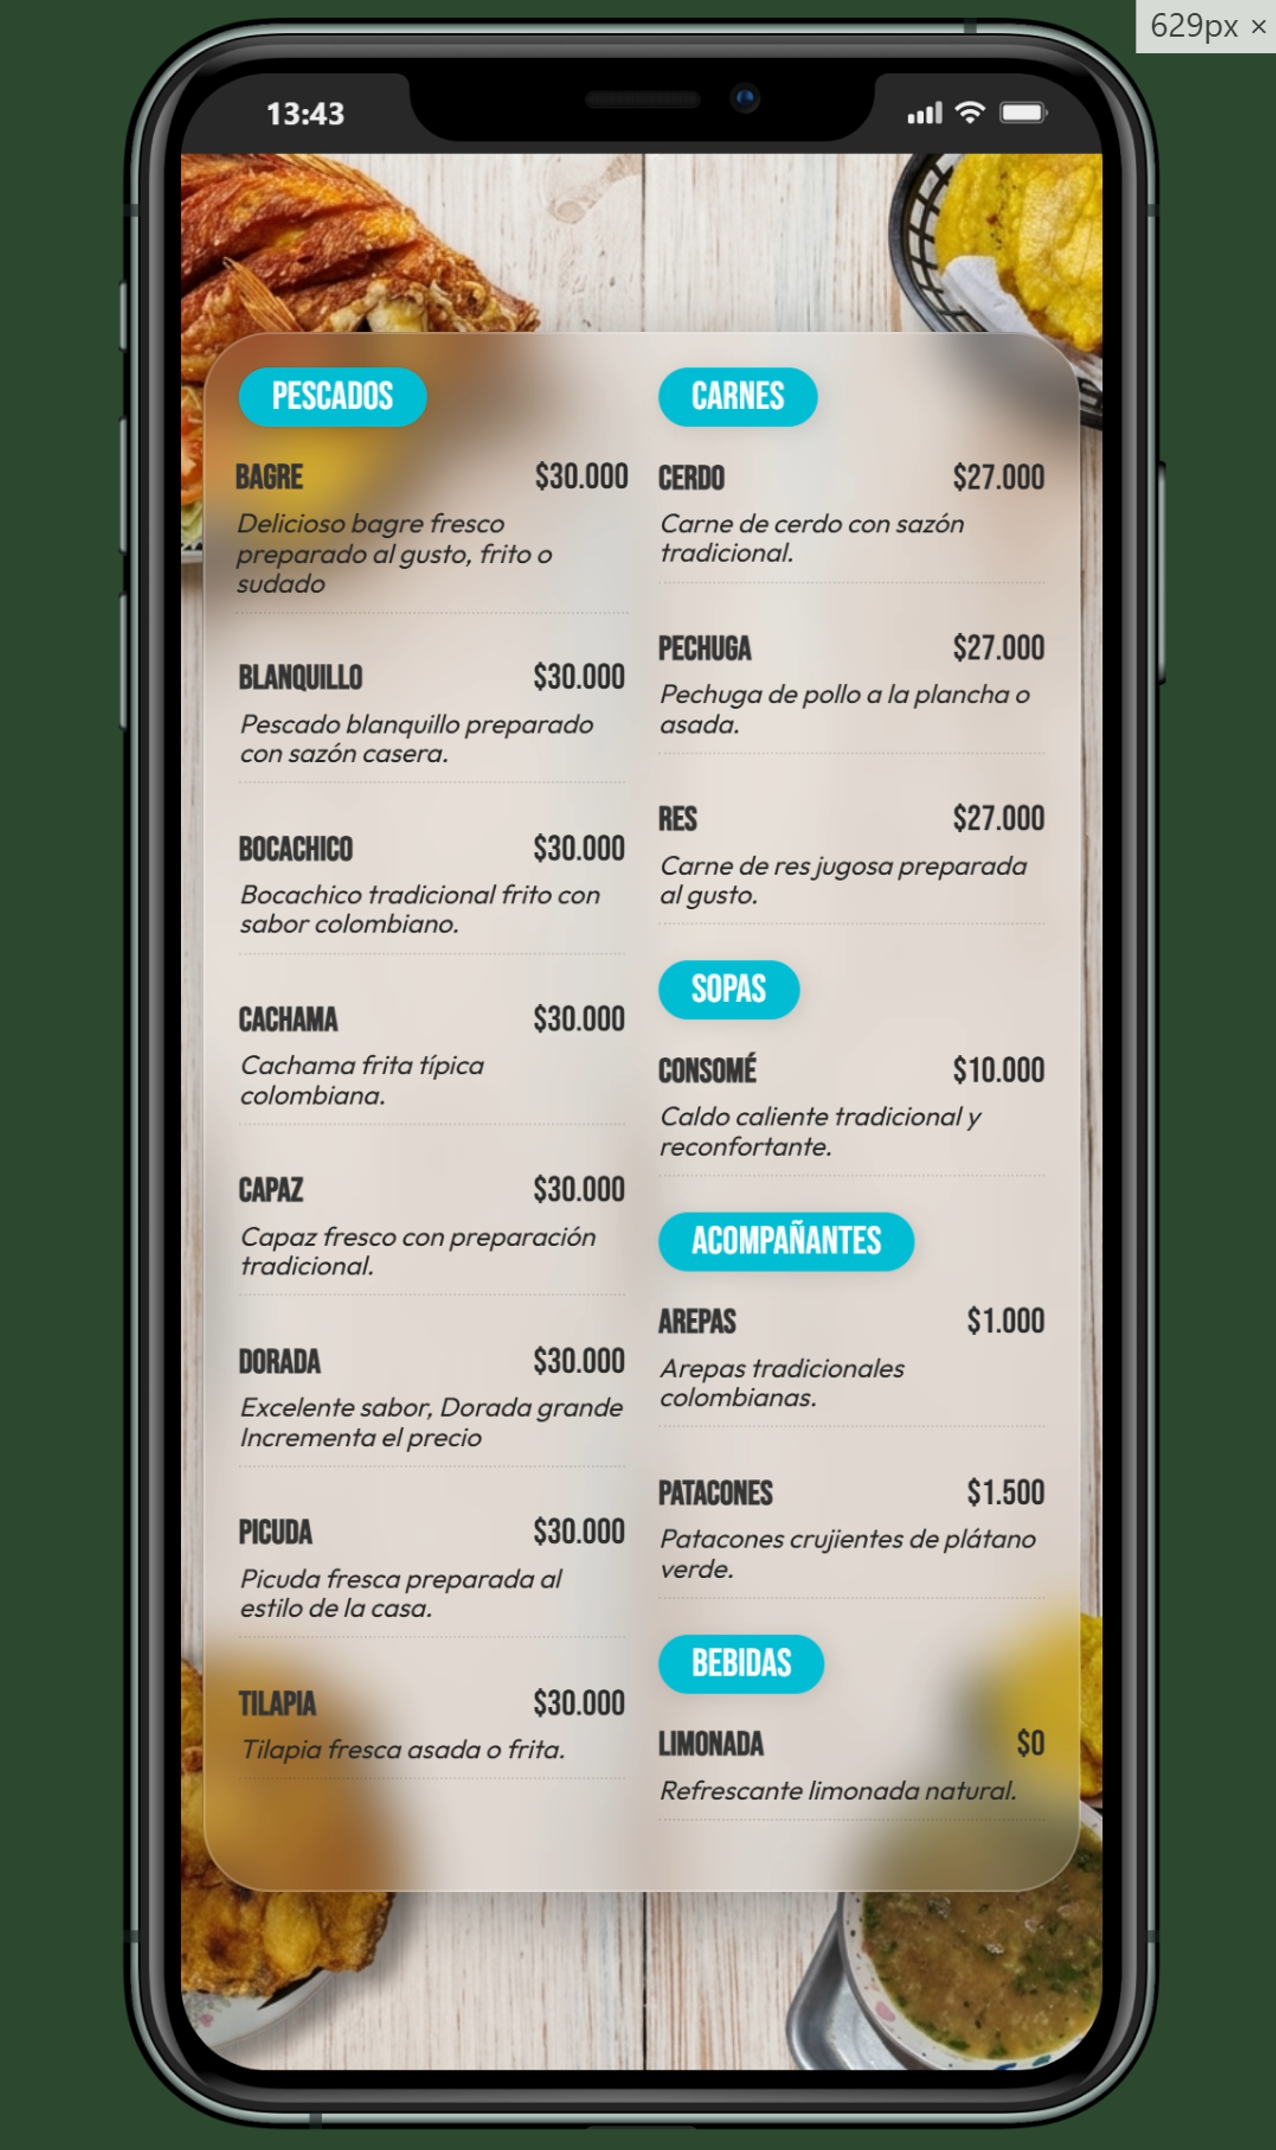
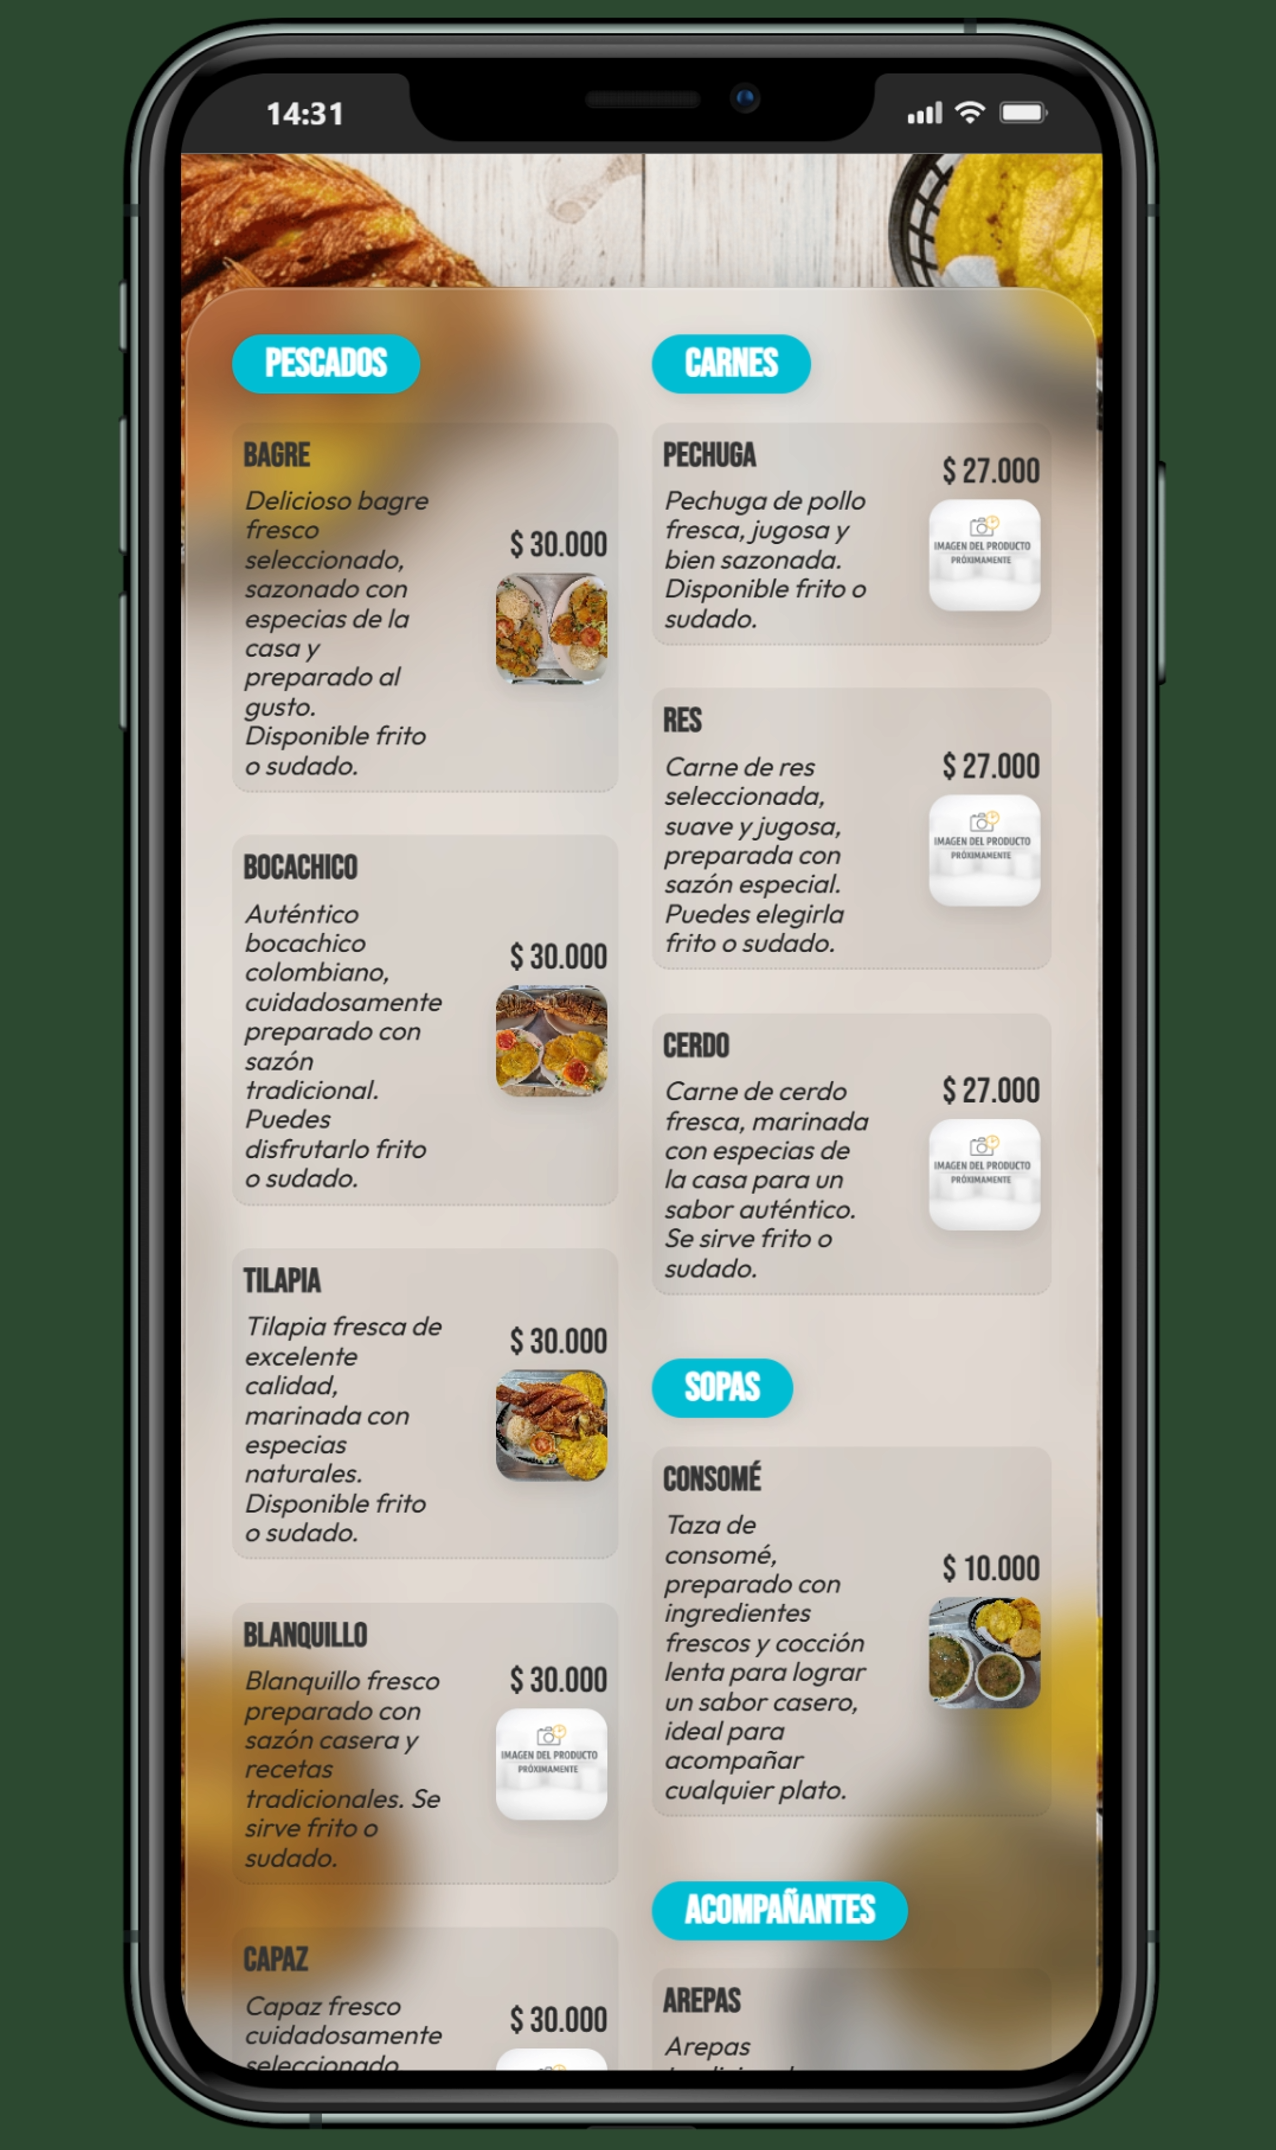
Implement dynamic menu rendering, product modal, loader, and comprehensive styling with SEO enhancements.

Changed region(s): [[0.1223, 0.1247, 0.8864, 0.966], [0.8864, 0.0, 1.0, 0.0312], [0.2139, 0.0312, 0.2751, 0.0623]]

diff --git a/public/js/main.js b/public/js/main.js
@@ -54,21 +54,27 @@ async function loadMenu() {
                     maximumFractionDigits: 0
                 }).format(product.precio);
 
+                const productImg = product.imagen ? `public/images/products/${product.imagen}` : 'public/images/product_default.png';
+
                 productsHtml += `
                     <article class="product-item" onclick='openProductModal(${JSON.stringify(product)})'>
-                        <header class="product-header">
+                        <div class="product-main-info">
                             <h3 class="product-name">${product.nombre}</h3>
+                            <p class="product-description">${product.descripcion || ''}</p>
+                        </div>
+                        <div class="product-side-info">
                             <span class="product-price">${formattedPrice}</span>
-                        </header>
-                        <p class="product-description">${product.descripcion || ''}</p>
+                            <img src="${productImg}" class="product-thumbnail" alt="${product.nombre}" loading="lazy" 
+                                 onerror="this.onerror=null;this.src='public/images/product_default.png';">
+                        </div>
                     </article>
                 `;
             });
 
             categorySection.innerHTML = `
-                <div class="category-title-bubble">
+                <h2 class="category-title-bubble">
                     ${category.nombre.toUpperCase()}
-                </div>
+                </h2>
                 <div class="product-list">
                     ${productsHtml}
                 </div>
@@ -115,13 +121,24 @@ function openProductModal(product) {
     if (product.imagen) {
         const img = document.createElement('img');
         img.src = baseUrl + product.imagen;
+        img.loading = 'lazy';
+        img.onerror = () => { img.src = 'public/images/product_default.png'; };
         imgContainer.appendChild(img);
     }
 
     if (product.imagen_2) {
         const img2 = document.createElement('img');
         img2.src = baseUrl + product.imagen_2;
+        img2.loading = 'lazy';
+        img2.onerror = () => { img2.style.display = 'none'; };
         imgContainer.appendChild(img2);
+    }
+
+    if (!product.imagen && !product.imagen_2) {
+        const img = document.createElement('img');
+        img.src = 'public/images/product_default.png';
+        img.loading = 'lazy';
+        imgContainer.appendChild(img);
     }
 
     modal.style.display = 'flex';

diff --git a/public/css/style.css b/public/css/style.css
@@ -6,6 +6,17 @@
     --font-body: 'Outfit', sans-serif;
 }
 
+.sr-only {
+    position: absolute;
+    width: 1px;
+    height: 1px;
+    padding: 0;
+    margin: -1px;
+    overflow: hidden;
+    clip: rect(0, 0, 0, 0);
+    border: 0;
+}
+
 * {
     margin: 0;
     padding: 0;
@@ -137,21 +148,48 @@ body {
 }
 
 .product-item {
+    display: flex;
+    gap: 12px;
+    align-items: center;
     border-bottom: 1px dotted rgba(0,0,0,0.1);
-    padding-bottom: 0.4rem;
+    padding-bottom: 0.6rem;
     cursor: pointer;
-    transition: transform 0.2s;
+    transition: transform 0.2s, background-color 0.2s;
+    border-radius: 8px;
+    padding: 8px;
+    background-color: rgba(0, 0, 0, 0.05);
 }
 
 .product-item:hover {
     transform: scale(1.02);
+    background-color: rgba(0, 0, 0, 0.08);
 }
 
-.product-header {
+.product-thumbnail {
+    width: 65px;
+    height: 65px;
+    object-fit: cover;
+    border-radius: 10px;
+    background-color: rgba(0,0,0,0.05);
+    flex-shrink: 0;
+    box-shadow: 0 4px 10px rgba(0,0,0,0.1);
+}
+
+.product-main-info {
+    flex-grow: 1;
     display: flex;
-    justify-content: space-between;
-    align-items: baseline;
-    margin-bottom: 0.2rem;
+    flex-direction: column;
+    justify-content: center;
+    padding-right: 15px;
+}
+
+.product-side-info {
+    flex-shrink: 0;
+    display: flex;
+    flex-direction: column;
+    align-items: flex-end;
+    gap: 8px;
+    min-width: 90px;
 }
 
 .product-name {
@@ -159,12 +197,14 @@ body {
     font-size: 1.25rem;
     color: #343434;
     text-transform: uppercase;
+    margin-bottom: 0.2rem; 
 }
 
 .product-price {
     font-family: var(--font-heading);
-    font-size: 1.3rem;
+    font-size: 1.2rem;
     color: #2b2b2b;
+    line-height: 1;
 }
 
 .product-description {
@@ -265,6 +305,21 @@ body {
     .product-description {
         font-size: 0.75rem; /* Letra de descripción más pequeña */
         line-height: 1.1;
+    }
+    .product-thumbnail {
+        width: 50px;
+        height: 50px;
+    }
+    .product-item {
+        gap: 5px;
+        padding: 5px;
+    }
+    .product-side-info {
+        min-width: 65px;
+        gap: 4px;
+    }
+    .product-main-info {
+        padding-right: 5px;
     }
 }
 

diff --git a/index.html b/index.html
@@ -4,15 +4,30 @@
 <head>
     <meta charset="UTF-8">
     <meta name="viewport" content="width=device-width, initial-scale=1.0">
-    <title>Isla del Sol - Menú Digital</title>
+    <title>Menú Restaurante Isla del Sol - Lo mejor de la comida tradicional</title>
+    <meta name="description" content="Descubre el delicioso menú del Restaurante Isla del Sol. Especialidades en pescados, carnes y comida tradicional con el sabor de la casa. Consulta nuestros precios y platos aquí.">
+    <meta name="keywords" content="Restaurante Isla del Sol, menú digital, pescados, carnes, comida tradicional, restaurante colombiano">
     <link rel="icon" type="image/jpeg" href="public/images/favicon.jpeg">
-    <!-- Los paths ahora son relativos a la raíz del proyecto estático -->
+    
+    <!-- Open Graph / Facebook -->
+    <meta property="og:type" content="website">
+    <meta property="og:title" content="Menú Restaurante Isla del Sol">
+    <meta property="og:description" content="Explora nuestra deliciosa variedad de platos tradicionales. Pescados frescos y carnes seleccionadas en Isla del Sol.">
+    <meta property="og:image" content="public/images/menu_main_bg.png">
+
+    <!-- Twitter -->
+    <meta property="twitter:card" content="summary_large_image">
+    <meta property="twitter:title" content="Menú Restaurante Isla del Sol">
+    <meta property="twitter:description" content="Nuestra carta completa ahora disponible online. Ven y disfruta del sabor tradicional.">
+    
     <link rel="stylesheet" href="public/css/style.css">
     <link href="https://fonts.googleapis.com/css2?family=Bebas+Neue&family=Outfit:wght@300;400;600&display=swap"
         rel="stylesheet">
 </head>
 
 <body class="menu-page">
+    <!-- H1 para SEO (Oculto visualmente pero accesible para lectores de pantalla y buscadores) -->
+    <h1 class="sr-only">Menú del Restaurante Isla del Sol</h1>
     <!-- Pantalla de carga (Loader) -->
     <div id="loader" class="loader-container">
         <div class="loader-spinner"></div>
